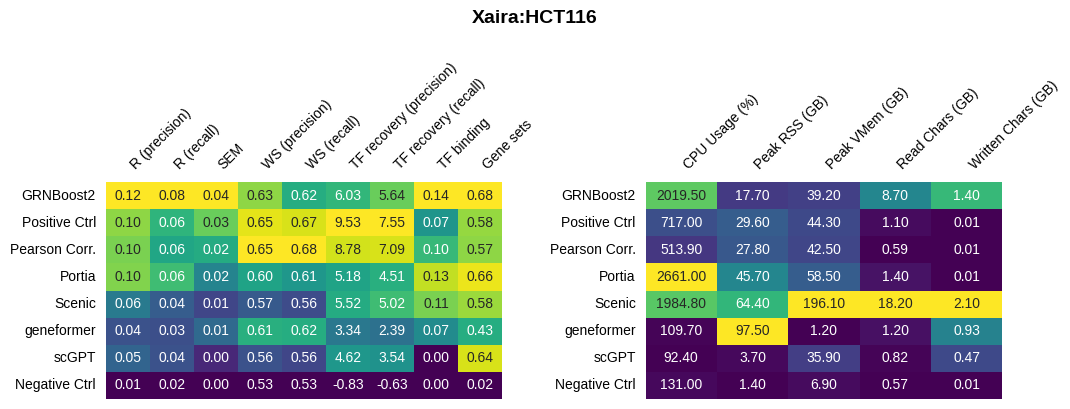
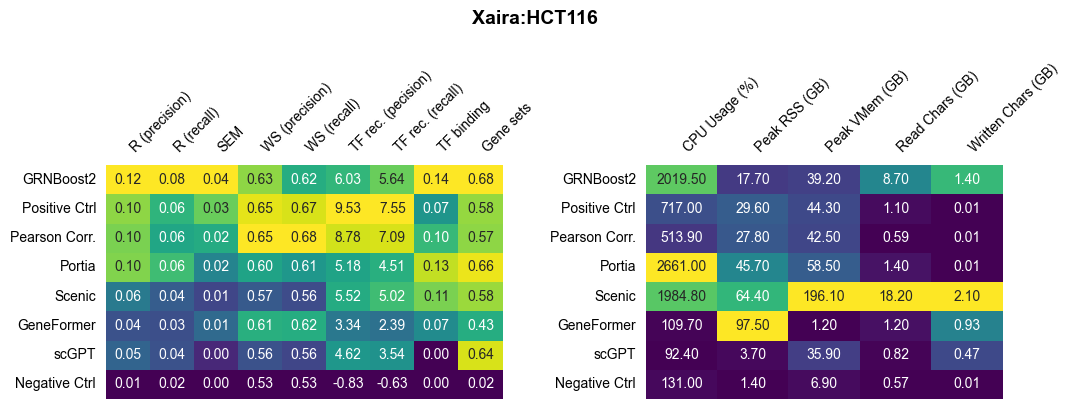
metrics names updated

diff --git a/src/utils/config.py b/src/utils/config.py
@@ -119,11 +119,14 @@ METRICS = [
        ]
     
 FINAL_METRICS = [
-       'r_precision', 'r_recall', 
+       'r_precision', 
+       'r_recall', 
        'vc', 
        'sem',
-       'ws_precision', 'ws_recall', 
-       't_rec_precision', 't_rec_recall', 
+       'ws_precision', 
+       'ws_recall', 
+       't_rec_precision', 
+       't_rec_recall', 
        'rc_tf_act',
        'tfb_f1', 
        'gs_f1', 
@@ -153,10 +156,10 @@ surrogate_names = {
 
     'regression': 'Regression',
     'tf_recovery': 'TF Recovery',
-    'r_precision': "R (precision)", 
-    'r_recall': "R (recall)", 
-    'r_f1': "R (F1)",
-    'r_raw': "R (raw)",
+    'r_precision': "Regression (precision)", 
+    'r_recall': "Regression (recall)", 
+    'r_f1': "Regression (F1)",
+    'r_raw': "Regression (raw)",
     'ws_precision': "WS (precision)", 
     'ws_recall': "WS (recall)", 
     'ws_distance': "WS distance", 
@@ -174,7 +177,7 @@ surrogate_names = {
     'tfb_f1': 'TF binding',
     'gs_precision': 'GS (precision)',
     'gs_recall': 'GS (recall)',
-    'gs_f1': 'Gene sets',
+    'gs_f1': 'Gene sets recovery',
     'gs_recovery': 'Gene sets recovery',
 
     'op':'OPSCA',
